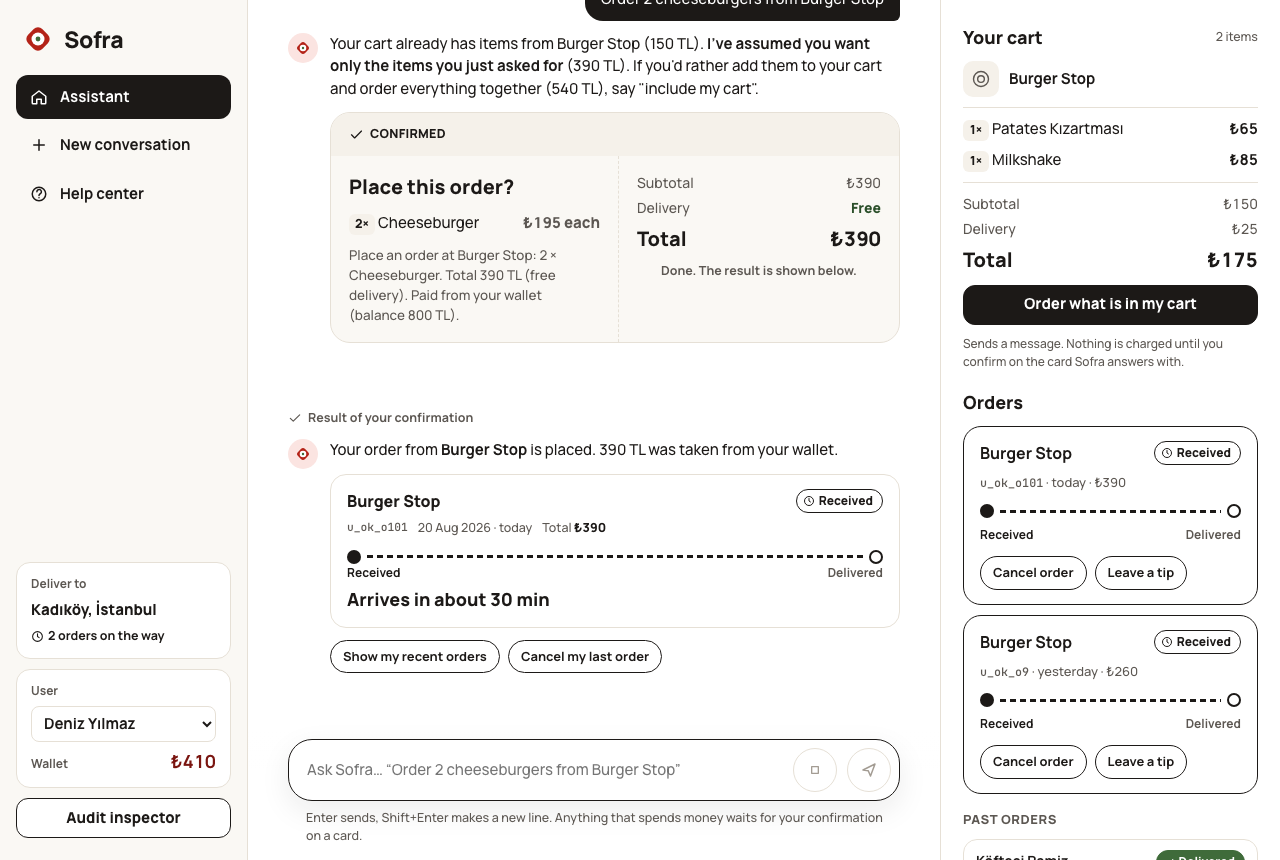
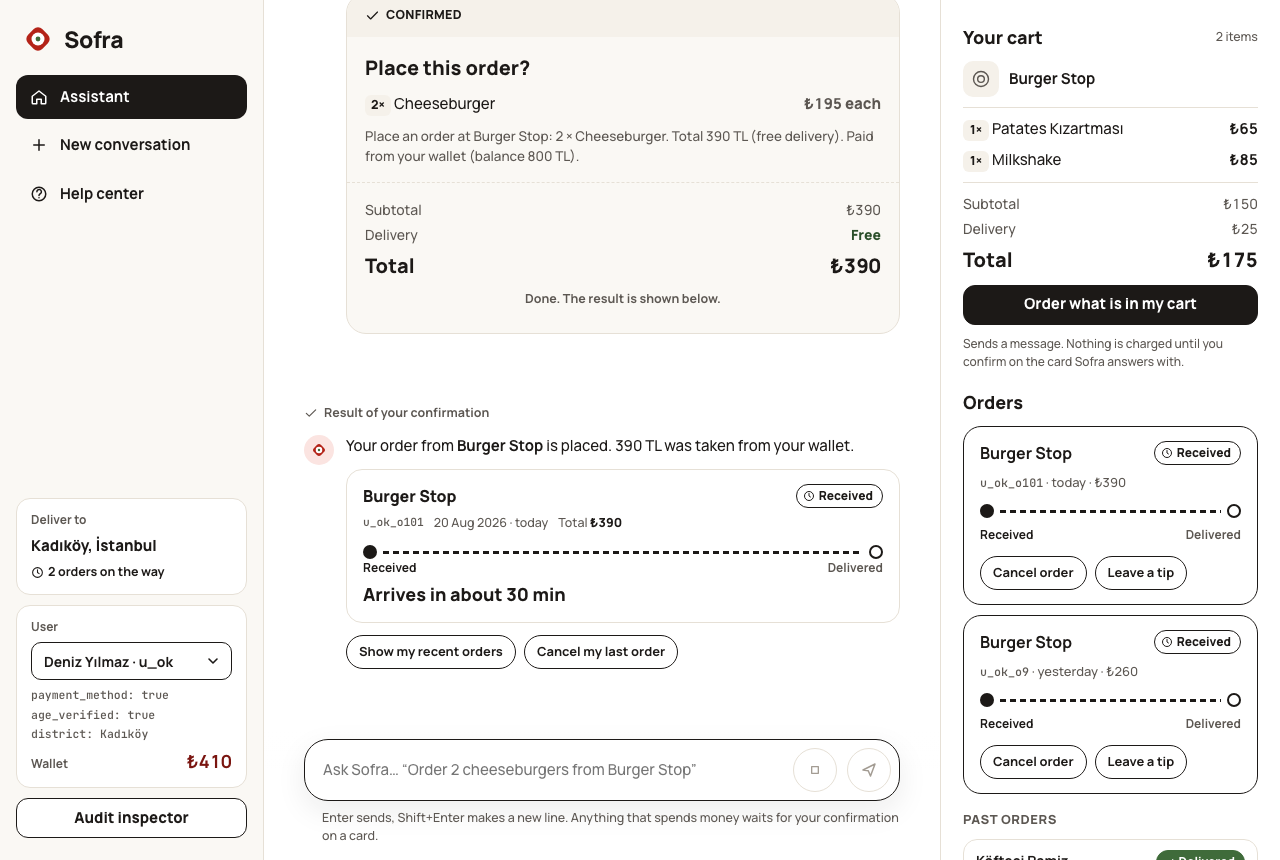
docs: screenshots of the phone layout
`npm run capture` also saves the start screen and the checkout card at
390px; the other screenshots are regenerated.

diff --git a/client/e2e/capture.spec.ts b/client/e2e/capture.spec.ts
@@ -95,3 +95,14 @@ test('other states', async ({ page }) => {
   await page.waitForTimeout(500);
   await shot(page, 'workbench');
 });
+
+test('on a phone', async ({ page }) => {
+  await page.setViewportSize({ width: 390, height: 844 });
+  await fetch(`${MOCK}/__admin/reset`, { method: 'POST' });
+  await page.goto('/?user=u_ok');
+  await expect(page.getByRole('heading', { name: /Near you in/ })).toBeVisible();
+  await shot(page, 'phone-home');
+  await say(page, 'Order 2 cheeseburgers from Burger Stop');
+  await page.getByRole('button', { name: 'Place order' }).scrollIntoViewIfNeeded();
+  await shot(page, 'phone-checkout');
+});
